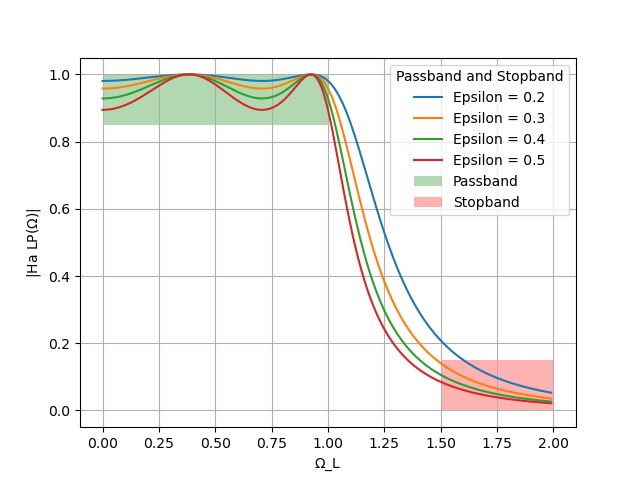
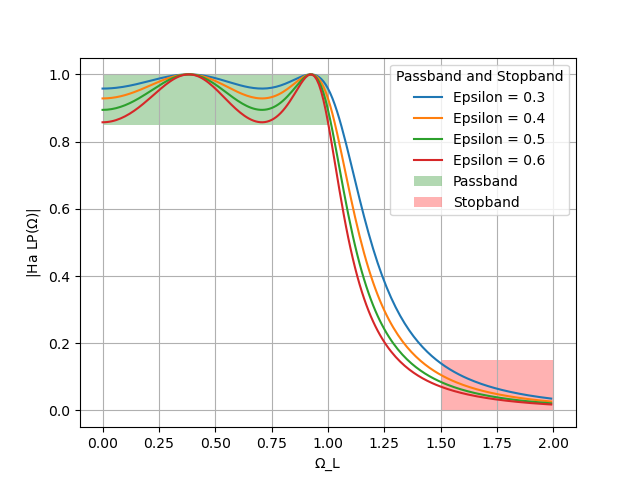
Add files via upload

Changed region(s): [[0.3125, 0.1562, 0.875, 0.8438], [0.1562, 0.1562, 0.2812, 0.2812]]

diff --git a/filter design/tables/tab.tex b/filter design/tables/tab.tex
@@ -5,14 +5,15 @@
     \begin{tabular}{|c|c|c|}
     \hline
     \textbf{$Pole$} & \textbf{$Value$} \\ \hline
-    $s_1$ &-0.3028 - j1.1781\\ \hline
-    $s_2$ &-0.7311- j0.4880\\ \hline
-    $s_3$ &-0.7311+ j0.4880\\ \hline
-    $s_4$ &-0.3028+ j1.1781\\ \hline
-    $s_5$ &0.3028+ j1.1781\\ \hline
-    $s_6$ &0.7311+ j0.4880\\ \hline
-    $s_7$ &0.7311- j0.4880\\ \hline
-    $s_8$ &0.3028- j1.1781\\ \hline
+ 
+    $s_1$ &-0.1982 - j1.0404\\ \hline
+    $s_2$ &-0.4785 - j0.4310\\ \hline
+    $s_3$ &-0.4785 + j0.4310\\ \hline
+    $s_4$ &-0.1982 + j1.0404\\ \hline
+    $s_5$ &0.1982 + j1.0404\\ \hline
+    $s_6$ &0.4785 + j0.4310\\ \hline
+    $s_7$ &0.4785 - j0.4310\\ \hline
+    $s_8$ &0.1982 - j1.0404\\ \hline
     \end{tabular}}
     \caption{Values of $s_k$}
     \label{tab:values poles sk}

diff --git a/filter design/tables/table1.tex b/filter design/tables/table1.tex
@@ -1,0 +1,19 @@
+\begin{table}[H]
+    \centering
+    
+    \resizebox{0.51\textwidth}{!}{
+    \begin{tabular}{|c|c|c|}
+    \hline
+    \textbf{$Pole$} & \textbf{$Value$} \\ \hline
+    $s_1$ &-0.2338 - j1.0826 \\ \hline
+    $s_2$ &-0.5644 - j0.4484\\ \hline
+    $s_3$ &-0.5644 + j0.4484  \\ \hline
+    $s_4$ &-0.2338+ j1.0826 \\ \hline
+    $s_5$ &0.2338 + j1.0826\\ \hline
+    $s_6$ &0.5644+ j0.4484 \\ \hline
+    $s_7$ &0.5644- j0.4484  \\ \hline
+    $s_8$ &0.2338 - j1.0826\\ \hline
+    \end{tabular}}
+    \caption{Values of $s_k$}
+    \label{tab:values poles sk}
+    \end{table}
